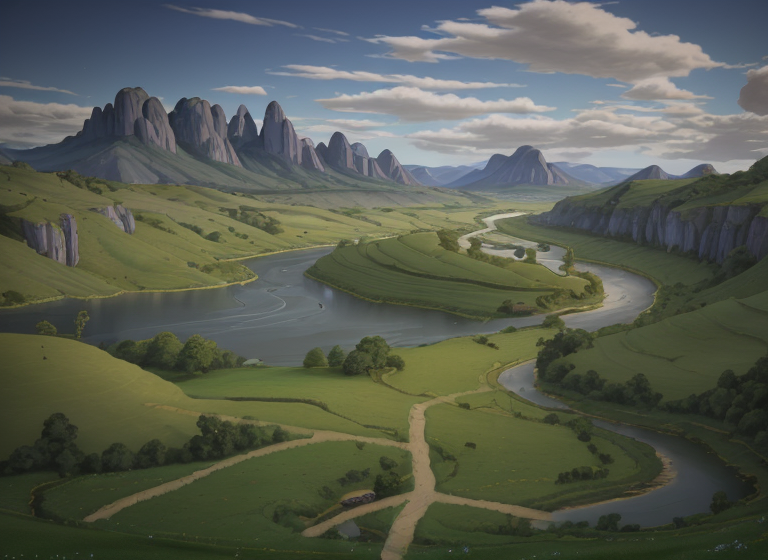
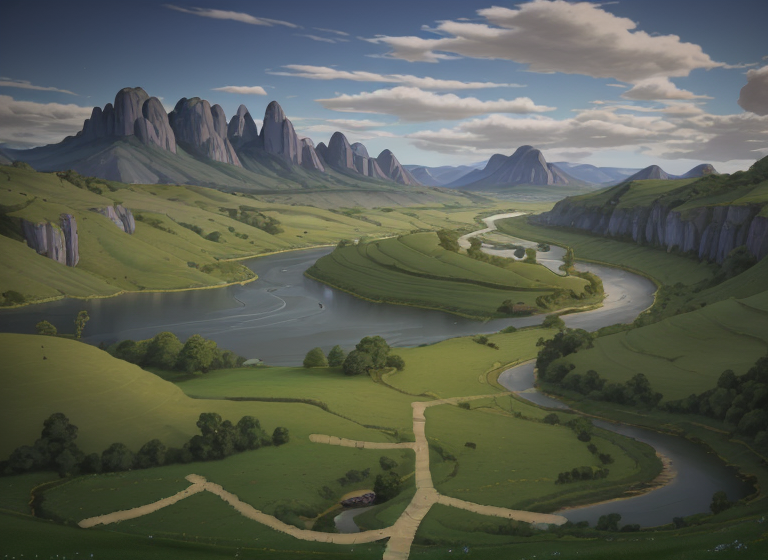
Przystań na tle AI: drogi do drzwi budowli, portal pionowo
Claude-Session: https://claude.ai/code/session_01ACpgVGYFhc89V1nkQx4Yem

Changed region(s): [[0.0938, 0.7286, 0.75, 1.0], [0.25, 0.7286, 0.3438, 0.7589], [0.5625, 0.6982, 0.625, 0.7286]]

diff --git a/tools/tla-ai/drogi.py b/tools/tla-ai/drogi.py
@@ -20,7 +20,7 @@ for R in U.get('drogi', []):
         x, y = p; w = R['w'] * max(0.15, (y - hor) / (420 - hor)) / 2; X, Y, r = (x - 8) * S, (y - 8) * S, w * S
         k = r * max(0.3, (y - hor) / np.hypot(U['pj'].get('f', 1000), y - hor))  # elipsa w perspektywie
         md.ellipse([X - r * 1.5, Y - k * 1.5, X + r * 1.5, Y + k * 1.5], fill=255)
-        c = tuple(int(v) for v in np.array([148, 124, 88]) + rng.normal(0, 8, 3)); dd.ellipse([X - r, Y - k, X + r, Y + k], fill=c)
+        c = tuple(int(v) for v in np.array([166, 142, 104]) + rng.normal(0, 8, 3)); dd.ellipse([X - r, Y - k, X + r, Y + k], fill=c)
 draw = Image.blend(im, draw, 0.85)
 torch.set_num_threads(os.cpu_count())
 pipe = StableDiffusionImg2ImgPipeline.from_pretrained(os.environ.get('MODEL', 'Lykon/dreamshaper-8'), torch_dtype=torch.float32, variant='fp16', safety_checker=None, requires_safety_checker=False)
